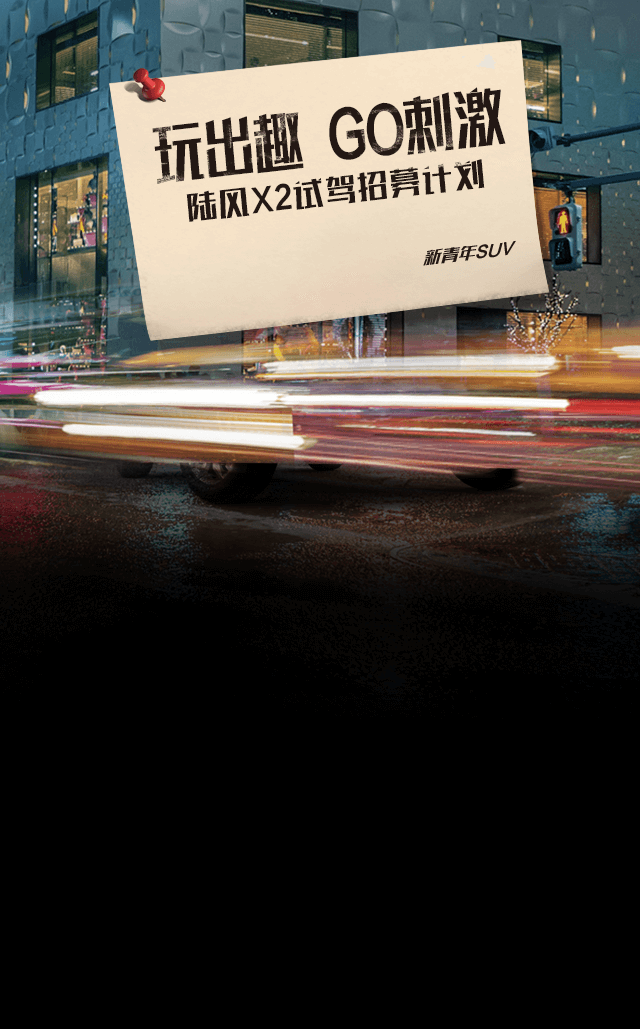
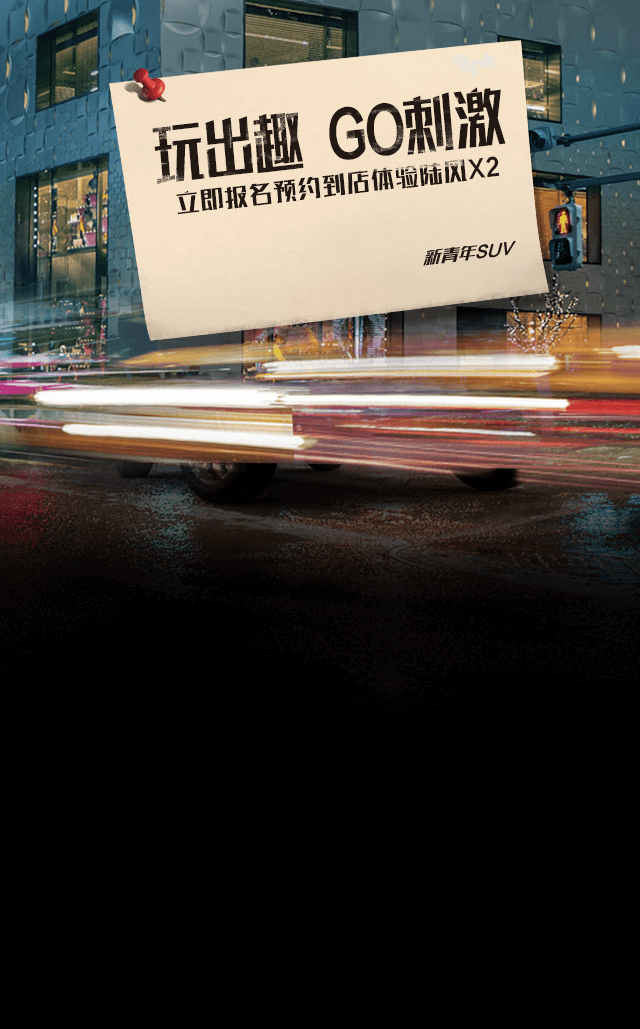
mondeo

Changed region(s): [[0.2812, 0.1555, 0.7812, 0.2177]]

diff --git a/lfx2/index.html b/lfx2/index.html
@@ -114,7 +114,7 @@
                     </div>
                     <div class="f_row submit"><div></div>
                         <div>
-                            <a id="btn_submit" href="javascript:void(0);" title="">试驾有礼</a>
+                            <a id="btn_submit" href="javascript:void(0);" title="">预约到店试驾</a>
                         </div>
                     </div>
                 </div>
